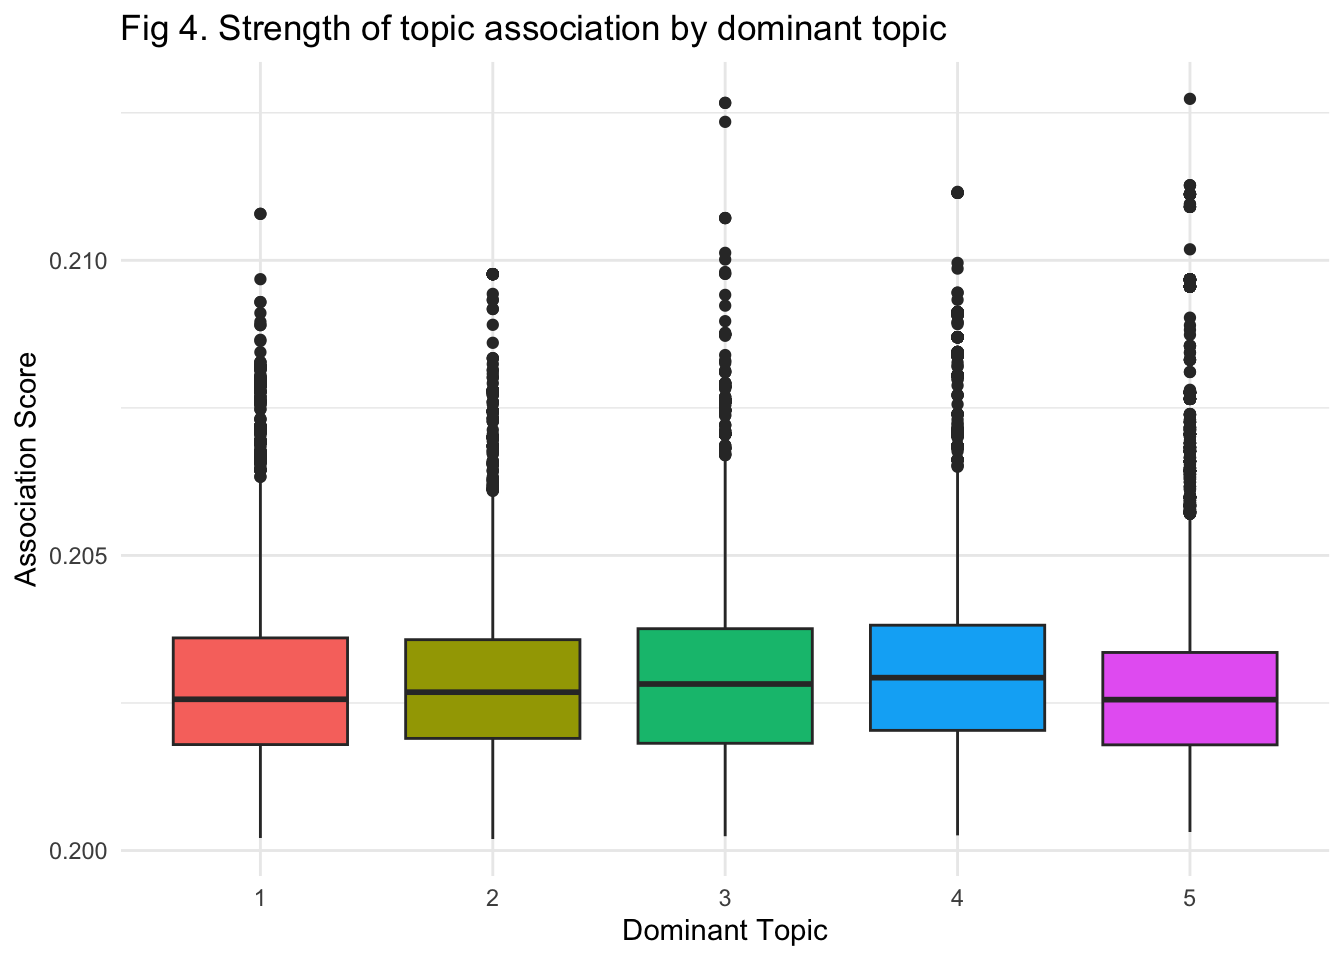
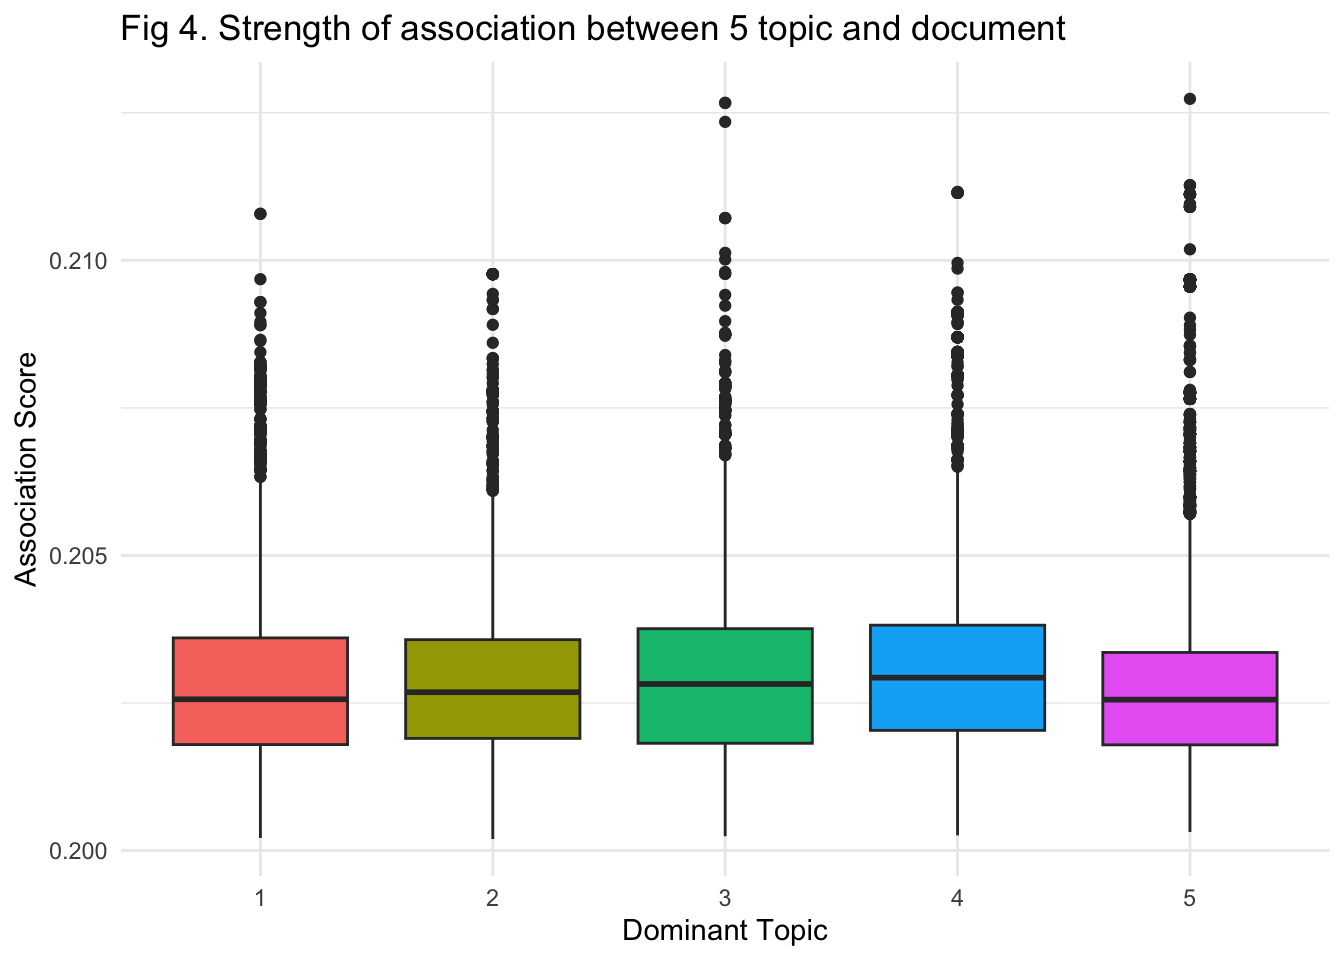
commit

Changed region(s): [[0.3125, 0.0, 0.7812, 0.0625]]

diff --git a/State of the union/topicmodel.html b/State of the union/topicmodel.html
@@ -111,6 +111,7 @@ pre > code.sourceCode > span > a:first-child::before { text-decoration: underlin
 </div>
 <section id="pre-processing-the-data" class="level1">
 <h1>Pre-processing the data</h1>
+<p>Since we don’t have multiple documents, LDA would not have enough information to ‘train’ the data into meaningful topics. However, we can address this by treating each paragraph as a ‘document’ and letting R analyze patterns from this collection of paragraphs. In my case, I have 2015 ‘documents.’</p>
 <div class="cell">
 <div class="sourceCode cell-code" id="cb2"><pre class="sourceCode r code-with-copy"><code class="sourceCode r"><span id="cb2-1"><a href="#cb2-1" aria-hidden="true" tabindex="-1"></a><span class="co"># Clean and split text into paragraphs</span></span>
 <span id="cb2-2"><a href="#cb2-2" aria-hidden="true" tabindex="-1"></a>democrat_paragraphs <span class="ot">&lt;-</span> democrat <span class="sc">%&gt;%</span></span>
@@ -128,6 +129,7 @@ pre > code.sourceCode > span > a:first-child::before { text-decoration: underlin
 </section>
 <section id="fitting-the-model" class="level1">
 <h1>Fitting the model</h1>
+<p>We fit the model by setting the K-parameter. In this case, it is set to 5. Always fine-tune the parameter according to your document to make a more meaningful interpretation.</p>
 <div class="cell">
 <div class="sourceCode cell-code" id="cb3"><pre class="sourceCode r code-with-copy"><code class="sourceCode r"><span id="cb3-1"><a href="#cb3-1" aria-hidden="true" tabindex="-1"></a><span class="co"># Fit LDA model</span></span>
 <span id="cb3-2"><a href="#cb3-2" aria-hidden="true" tabindex="-1"></a>lda_model <span class="ot">&lt;-</span> <span class="fu">LDA</span>(dtm, <span class="at">k =</span> <span class="dv">5</span>, <span class="at">control =</span> <span class="fu">list</span>(<span class="at">seed =</span> <span class="dv">1234</span>))</span>
@@ -137,6 +139,7 @@ pre > code.sourceCode > span > a:first-child::before { text-decoration: underlin
 </div>
 <section id="extracting-latent-topic" class="level2">
 <h2 class="anchored" data-anchor-id="extracting-latent-topic">1. Extracting latent topic</h2>
+<p>Again, we assume no prior knowledge about the topics - the word ‘latent’ in LDA speak for itself.</p>
 <div class="cell">
 <div class="sourceCode cell-code" id="cb4"><pre class="sourceCode r code-with-copy"><code class="sourceCode r"><span id="cb4-1"><a href="#cb4-1" aria-hidden="true" tabindex="-1"></a><span class="co"># Extract the word-topic probabilities and plot top words</span></span>
 <span id="cb4-2"><a href="#cb4-2" aria-hidden="true" tabindex="-1"></a><span class="fu">tidy</span>(lda_model, <span class="at">matrix =</span> <span class="st">"beta"</span>) <span class="sc">%&gt;%</span></span>
@@ -164,6 +167,7 @@ pre > code.sourceCode > span > a:first-child::before { text-decoration: underlin
 </section>
 <section id="knowing-the-most-dominant-topic" class="level2">
 <h2 class="anchored" data-anchor-id="knowing-the-most-dominant-topic">2. Knowing the most dominant topic</h2>
+<p>The first analysis gives us the relationship between words and latent topics, but it doesn’t tell us which topic is the most dominant in the document. We can obtain this information by using the following algorithm.</p>
 <div class="cell">
 <div class="sourceCode cell-code" id="cb5"><pre class="sourceCode r code-with-copy"><code class="sourceCode r"><span id="cb5-1"><a href="#cb5-1" aria-hidden="true" tabindex="-1"></a><span class="co"># Find the dominant topic for each paragraph</span></span>
 <span id="cb5-2"><a href="#cb5-2" aria-hidden="true" tabindex="-1"></a>doc_topics <span class="ot">&lt;-</span> <span class="fu">posterior</span>(lda_model)<span class="sc">$</span>topics</span>
@@ -198,6 +202,7 @@ pre > code.sourceCode > span > a:first-child::before { text-decoration: underlin
 </section>
 <section id="topic-co-occurance" class="level2">
 <h2 class="anchored" data-anchor-id="topic-co-occurance">3. Topic co-occurance</h2>
+<p>Next, we also want to know whether the 5 topics are related to each other—that is, to what extent they are in conversation or stand-alone documents.</p>
 <div class="cell">
 <div class="sourceCode cell-code" id="cb7"><pre class="sourceCode r code-with-copy"><code class="sourceCode r"><span id="cb7-1"><a href="#cb7-1" aria-hidden="true" tabindex="-1"></a><span class="fu">library</span>(reshape2)</span>
 <span id="cb7-2"><a href="#cb7-2" aria-hidden="true" tabindex="-1"></a></span>
@@ -225,8 +230,9 @@ pre > code.sourceCode > span > a:first-child::before { text-decoration: underlin
 </div>
 </div>
 </section>
-<section id="strength-of-association-by-topic" class="level2">
-<h2 class="anchored" data-anchor-id="strength-of-association-by-topic">4. Strength of association by topic</h2>
+<section id="strength-of-association-between-topics-and-documents" class="level2">
+<h2 class="anchored" data-anchor-id="strength-of-association-between-topics-and-documents">4. Strength of association between topics and documents</h2>
+<p>We also want to know how the probability of each topic varies across a corpus of documents. Unlike the second analysis, this analysis focuses on the likelihood of topics throughout the entire corpus rather than calculating individual documents one by one.</p>
 <div class="cell">
 <div class="sourceCode cell-code" id="cb8"><pre class="sourceCode r code-with-copy"><code class="sourceCode r"><span id="cb8-1"><a href="#cb8-1" aria-hidden="true" tabindex="-1"></a><span class="co"># Calculate maximum association score for each paragraph</span></span>
 <span id="cb8-2"><a href="#cb8-2" aria-hidden="true" tabindex="-1"></a>max_topic_association <span class="ot">&lt;-</span> <span class="fu">apply</span>(doc_topics, <span class="dv">1</span>, max)</span>
@@ -244,7 +250,7 @@ pre > code.sourceCode > span > a:first-child::before { text-decoration: underlin
 <span id="cb9-3"><a href="#cb9-3" aria-hidden="true" tabindex="-1"></a>  <span class="fu">ggplot</span>(<span class="fu">aes</span>(<span class="at">x =</span> <span class="fu">factor</span>(dominant_topic), <span class="at">y =</span> max_association, <span class="at">fill =</span> <span class="fu">factor</span>(dominant_topic))) <span class="sc">+</span></span>
 <span id="cb9-4"><a href="#cb9-4" aria-hidden="true" tabindex="-1"></a>  <span class="fu">geom_boxplot</span>(<span class="at">show.legend =</span> F) <span class="sc">+</span></span>
 <span id="cb9-5"><a href="#cb9-5" aria-hidden="true" tabindex="-1"></a>  <span class="fu">labs</span>(</span>
-<span id="cb9-6"><a href="#cb9-6" aria-hidden="true" tabindex="-1"></a>    <span class="at">title =</span> <span class="st">"Fig 4. Strength of topic association by dominant topic"</span>,</span>
+<span id="cb9-6"><a href="#cb9-6" aria-hidden="true" tabindex="-1"></a>    <span class="at">title =</span> <span class="st">"Fig 4. Strength of association between 5 topic and document"</span>,</span>
 <span id="cb9-7"><a href="#cb9-7" aria-hidden="true" tabindex="-1"></a>    <span class="at">x =</span> <span class="st">"Dominant Topic"</span>,</span>
 <span id="cb9-8"><a href="#cb9-8" aria-hidden="true" tabindex="-1"></a>    <span class="at">y =</span> <span class="st">"Association Score"</span></span>
 <span id="cb9-9"><a href="#cb9-9" aria-hidden="true" tabindex="-1"></a>  ) <span class="sc">+</span></span>
